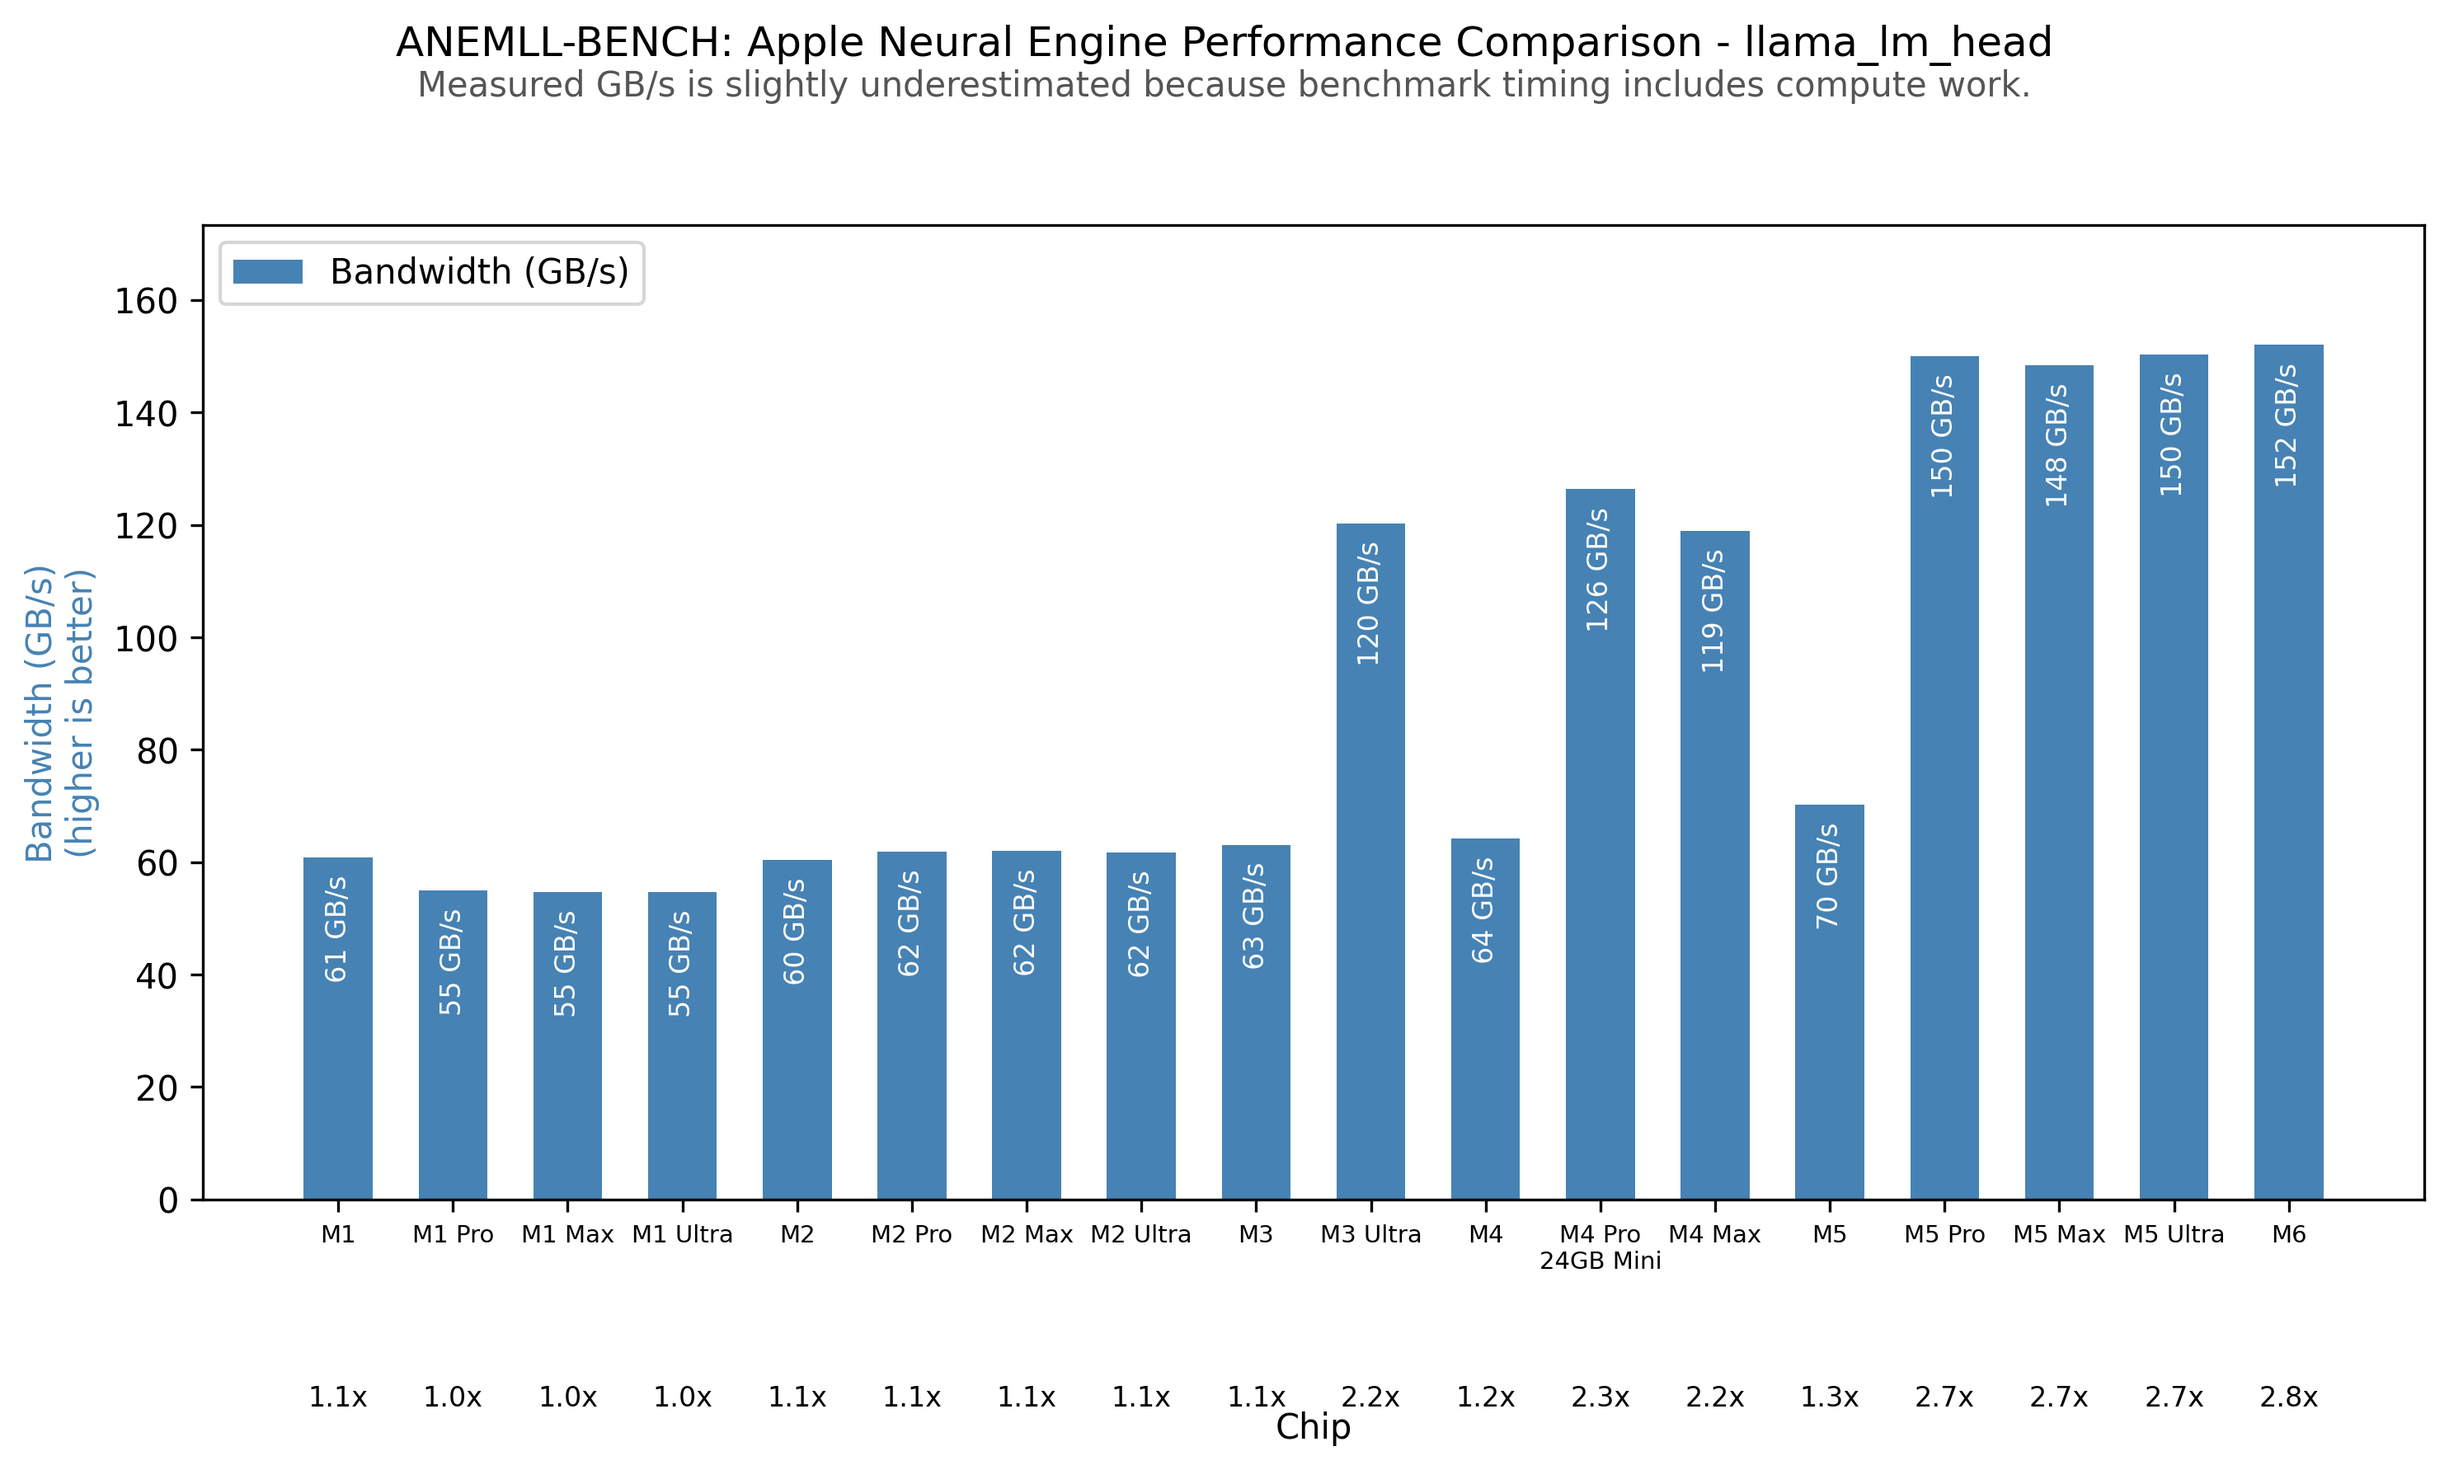
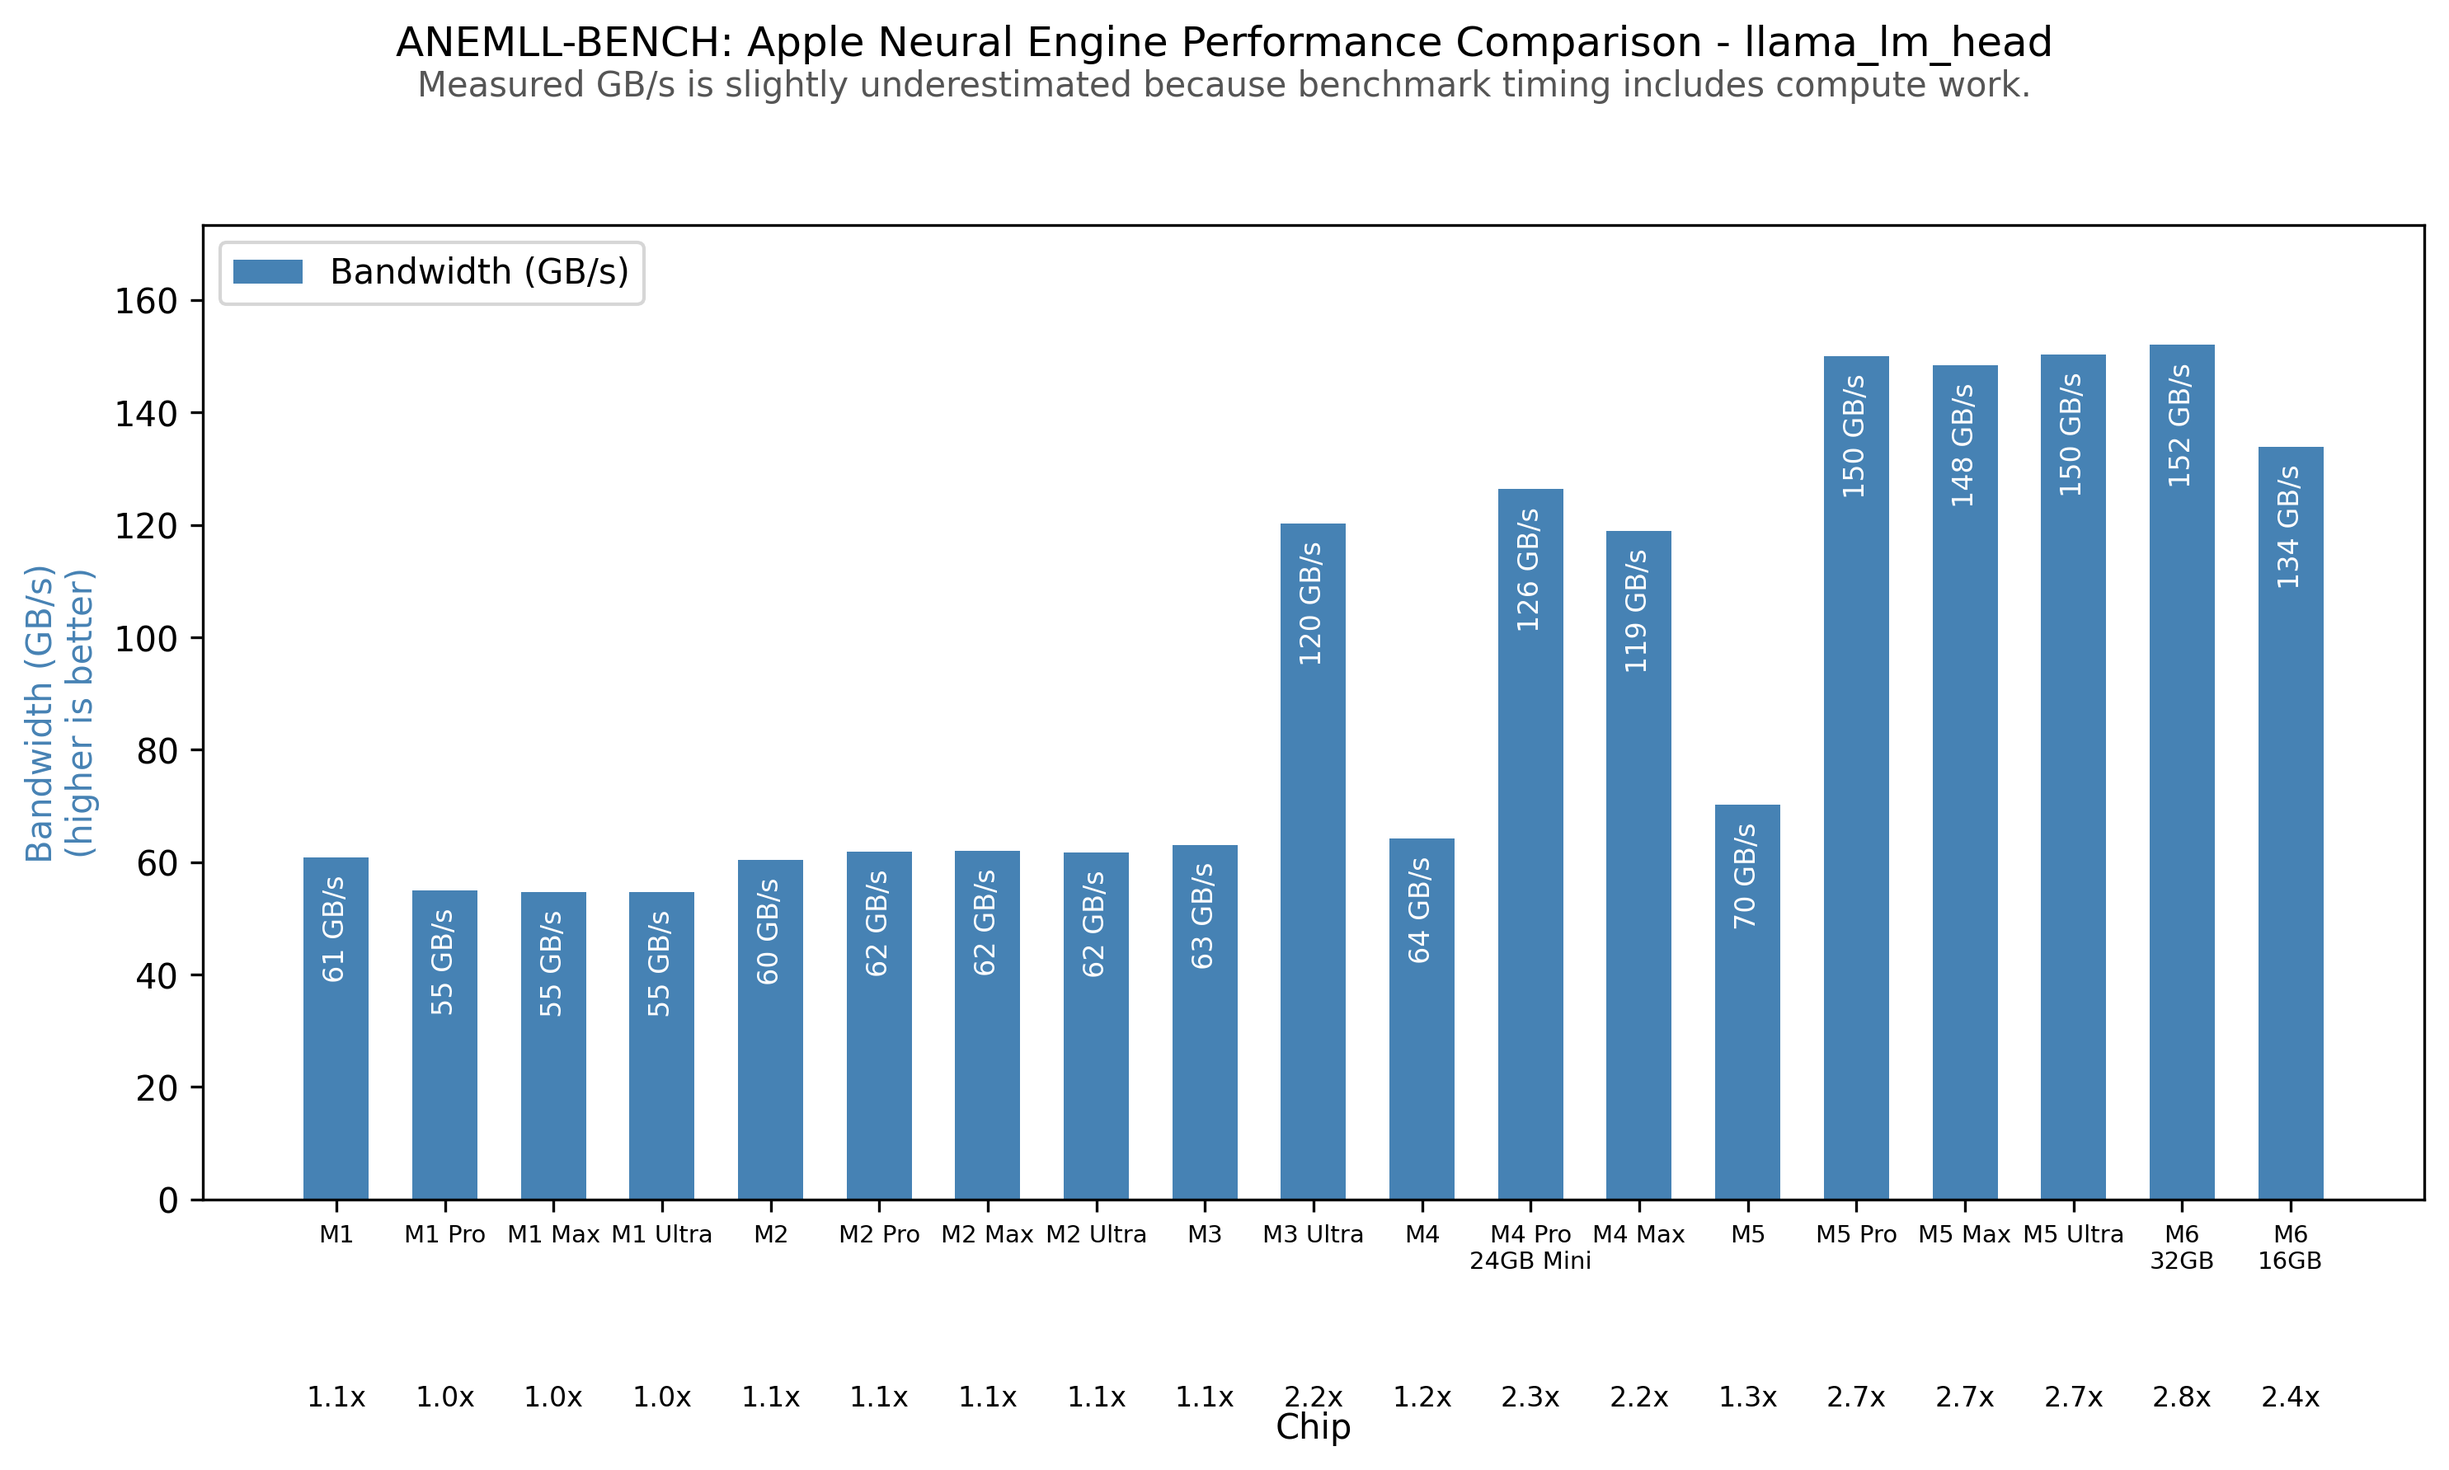
Add M6 (Mac18,5, 16 GB) benchmark results

diff --git a/examples/plot_chip_comparison.py b/examples/plot_chip_comparison.py
@@ -28,9 +28,9 @@ def main():
     args = parser.parse_args()
 
     # Sample data from llama_lm_head model benchmarks
-    chips = ['M1', 'M1 Pro', 'M1 Max', 'M1 Ultra', 'M2', 'M2 Pro', 'M2 Max', 'M2 Ultra', 'M3', 'M3 Ultra', 'M4', 'M4 Pro\n24GB Mini', 'M4 Max', 'M5', 'M5 Pro', 'M5 Max', 'M5 Ultra', 'M6']
-    bandwidth = [60.87, 54.90, 54.62, 54.72, 60.45, 61.93, 62.01, 61.68, 63.10, 120.22, 64.18, 126.36, 118.88, 70.21, 150.00, 148.39, 150.33, 152.01]  # GB/s (llama_lm_head)
-    bandwidth_factor = ['1.1x', '1.0x', '1.0x', '1.0x', '1.1x', '1.1x', '1.1x', '1.1x', '1.1x', '2.2x', '1.2x', '2.3x', '2.2x', '1.3x', '2.7x', '2.7x', '2.7x', '2.8x']
+    chips = ['M1', 'M1 Pro', 'M1 Max', 'M1 Ultra', 'M2', 'M2 Pro', 'M2 Max', 'M2 Ultra', 'M3', 'M3 Ultra', 'M4', 'M4 Pro\n24GB Mini', 'M4 Max', 'M5', 'M5 Pro', 'M5 Max', 'M5 Ultra', 'M6\n32GB', 'M6\n16GB']
+    bandwidth = [60.87, 54.90, 54.62, 54.72, 60.45, 61.93, 62.01, 61.68, 63.10, 120.22, 64.18, 126.36, 118.88, 70.21, 150.00, 148.39, 150.33, 152.01, 133.92]  # GB/s (llama_lm_head)
+    bandwidth_factor = ['1.1x', '1.0x', '1.0x', '1.0x', '1.1x', '1.1x', '1.1x', '1.1x', '1.1x', '2.2x', '1.2x', '2.3x', '2.2x', '1.3x', '2.7x', '2.7x', '2.7x', '2.8x', '2.4x']
 
     # Option 1: Use plot_chip_comparison directly
     print("Demonstrating direct use of plot_chip_comparison function...\n")

diff --git a/Results.MD b/Results.MD
@@ -16,7 +16,7 @@ The cross-chip comparison below reports `llama_lm_head` memory bandwidth. A hist
 
 The chart below shows performance comparison across Apple Silicon generations for the `llama_lm_head` model:
 
-![Apple Silicon Performance Comparison](./reports/chip_comparison_llama_lm_head.png?v=20260924_m5p_v1)
+![Apple Silicon Performance Comparison](./reports/chip_comparison_llama_lm_head.png?v=20260930_m6_16gb)
 
 As shown in the visualization:
 - **M4 Series** chips demonstrate approximately 2.3x higher memory bandwidth compared to M1 series
@@ -50,6 +50,7 @@ As shown in the visualization:
 | M5 Max | 148.39 | 2.7x |
 | M5 Ultra (36C CPU / 80C GPU / 256 GB) | 150.33 | 2.7x |
 | M6 (Mac18,5, 32 GB) | 152.01 | 2.8x |
+| M6 (Mac18,5, 16 GB) | 133.92 | 2.4x |
 
 ### Verified `llama_lm_head` Single-Model Latency
 
@@ -60,6 +61,7 @@ As shown in the visualization:
 | M5 Ultra (36C CPU / 80C GPU / 256 GB) | 6.99 | Not stated | Contributor-supplied result; run count and warmup policy not stated |
 | M3 Ultra (Mac15,14, 96 GB) | 8.74 | 1050.67 | Standalone report, 2025-04-24; macOS 15.4.1 |
 | M6 (Mac18,5, 32 GB) | 6.91 | 1050.67 | Supplied benchmark report; run count and warmup policy not stated |
+| M6 (Mac18,5, 16 GB) | 7.85 | 1050.67 | Standalone report (`benchmark_all_models.py`, 300 runs), 2026-09-30; macOS 27.0.1 |
 
 ### Key Observations
 
@@ -71,6 +73,7 @@ As shown in the visualization:
    - The base M4 16GB shows modest improvements (~1.2x) over M1 series, significantly underperforming both M3 Ultra and higher-end M4 variants
    - **M5** reaches 70.21 GB/s, between the base M2/M3 tier and the higher-bandwidth variants
    - **M5 Pro**, **M5 Max**, **M5 Ultra**, and **M6** reach 150.00 GB/s, 148.39 GB/s, 150.33 GB/s, and 152.01 GB/s respectively; parallel/combined dual-model values are not used in the cross-chip table
+   - **M6 (Mac18,5, 16 GB)** reaches 133.92 GB/s, about 12% below the 32 GB M6 report
 
 2. **Memory Bandwidth Efficiency**:
    - M3 Ultra and high-end M4 series show ~2.2-2.3x improvement in memory bandwidth utilization
@@ -113,6 +116,18 @@ The ANE does not scale linearly with system memory bandwidth. Three clear perfor
 - **Tier 1 (~120-152 GB/s)**: M6 (Mac18,5), M5 Ultra, M5 Pro, M5 Max, M4 Pro, M3 Ultra, M4 Max — architectural ANE improvements
 - **Tier 2 (~60-70 GB/s)**: M5, M4, M3, M2 series, M1 — base ANE performance
 - **Tier 3 (~55 GB/s)**: M1 Pro/Max/Ultra — first-generation ANE with no scaling across variants
+
+### Dual Model Benchmark Results (M6, Mac18,5, 16 GB)
+
+| Configuration | Inference Time (ms) | Throughput (GB/s) | Model Size (MB) |
+|--------------|--------------------:|------------------:|----------------:|
+| llama_lm_head (solo) | 7.87 | 133.47 | 1050.67 |
+| DeepHermes_lm_head (solo) | 7.97 | 131.79 | 1050.67 |
+| llama_lm_head (parallel) | 14.83 | 70.84 | 1050.67 |
+| DeepHermes_lm_head (parallel) | 15.43 | 68.09 | 1050.67 |
+| Combined (parallel) | 15.43 | 135.94 | 2101.35 |
+
+The M6 16 GB report (`benchmark_dual_models.py`, 300 runs, 2026-09-30, macOS 27.0.1) shows 135.94 GB/s combined throughput when both models run concurrently. That is effectively the same as its 133.92 GB/s single-model `llama_lm_head` result, so the dual-model value is documented separately and is not used in the cross-chip single-model chart.
 
 ### Dual Model Benchmark Results (M5 Max)
 

diff --git a/README.md b/README.md
@@ -36,7 +36,7 @@ ANEMLL-Bench is part on ANEMLL Open Source Project [anemll.com](https://anemll.c
 
 ## 📊 [View Benchmark Results](./Results.MD) 📊
 
-[![Apple Silicon Performance Comparison](./reports/chip_comparison_llama_lm_head.png?v=20260924_m5p_v1)](./Results.MD)
+[![Apple Silicon Performance Comparison](./reports/chip_comparison_llama_lm_head.png?v=20260930_m6_16gb)](./Results.MD)
 
 Check out our latest [benchmark results](./Results.MD) comparing performance across different Apple Silicon chips (M1 through M6 series).
 
